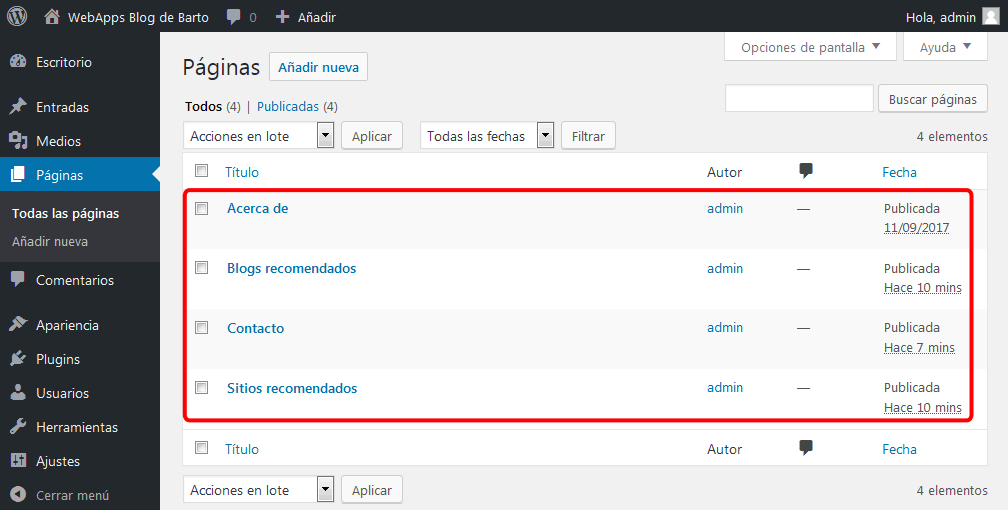
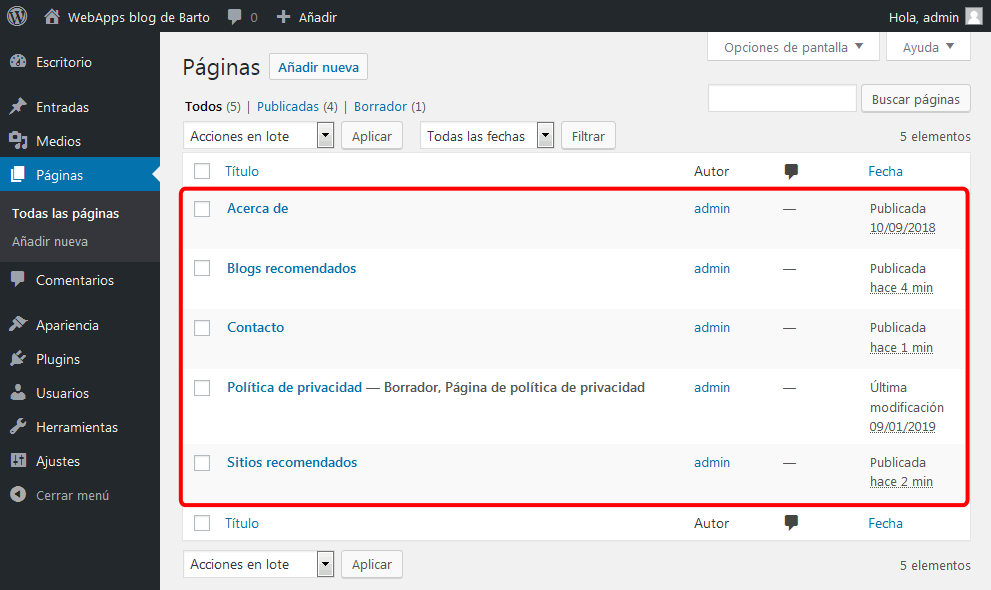
Sigo actualizando WordPress (2)

diff --git a/lecciones/wordpress-2.html b/lecciones/wordpress-2.html
@@ -65,7 +65,9 @@
           <li>Formato de fecha: 11/01/2019</li>
           <li>Formato de hora: 21:14</li>
         </ul>
-        <p class="captura"><img src="../img/wordpress/2-1-e-1-ajustes.png" alt="WordPress. Ajustes básicos" width="991" height="489" /></p>
+        <p class="captura">
+          <img src="../img/wordpress/2-1-e-1-ajustes.png" alt="WordPress. Ajustes básicos" width="991" height="489" />
+        </p>
       </li>
       <li>Entradas
         <p>El blog predeterminado contiene una entrada que se titula "¡Hola mundo!".</p>
@@ -73,17 +75,21 @@
           <li>Primera entrada
             <p>Modifique el título y contenido de la primera entrada. Por ejemplo,</p>
             <p>Nace WebApps blog</p>
-            <p>Hoy nace WebApps blog, el blog dedicado a las aplicaciones web.  ¡Bienvenidos al viaje!</p>
+            <p>Hoy nace WebApps blog, el blog dedicado a las aplicaciones web. ¡Bienvenidos al viaje!</p>
             <p>Modifique la fecha de la entrada. Por ejemplo, al 10 de septiembre de 2018.</p>
             <p>Modifique el enlace permanente de la página. Por ejemplo a nace-webapps-blog.</p>
-            <p class="captura"><img src="../img/wordpress/2-1-e-2-entrada.png" alt="WordPress. Entrada" width="991" height="489" /></p>
+            <p class="captura">
+              <img src="../img/wordpress/2-1-e-2-entrada.png" alt="WordPress. Entrada" width="991" height="489" />
+            </p>
           </li>
           <li>Comentario a la primera entrada
             <p>Modifique el contenido del comentario. Por ejemplo,</p>
             <p>Enhorabuena!</p>
             <p>Ojalá que este blog tenga una larga vida. Es fácil empezar un blog, pero no es nada fácil continuar en la brecha.</p>
             <p>Modifique la fecha del comentario. Por ejemplo, al 11 de septiembre de 2018.</p>
-            <p class="captura"><img src="../img/wordpress/2-1-e-3-comentario.png" alt="WordPress. Comentario" width="991" height="489" /></p>
+            <p class="captura">
+              <img src="../img/wordpress/2-1-e-3-comentario.png" alt="WordPress. Comentario" width="991" height="489" />
+            </p>
           </li>
         </ul>
       </li>
@@ -97,7 +103,9 @@
           <li>Modifique la fecha de la página de ejemplo. Por ejemplo, al 10 de septiembre de 2018.</li>
           <li>Modifique el enlace permanente a <strong>http://.../wordpress/acerca-de</strong>.</li>
           <li>Compruebe que no puede ver la página de ejemplo escribiendo la dirección <strong>http://.../wordpress/pagina-ejemplo</strong>, pero sí puede verla escribiendo la dirección <strong>http://.../wordpress/acerca-de</strong>.
-            <p class="captura"><img src="../img/wordpress/2-1-e-4-pagina.png" alt="WordPress. Página" width="991" height="489" /></p>
+            <p class="captura">
+              <img src="../img/wordpress/2-1-e-4-pagina.png" alt="WordPress. Página" width="991" height="489" />
+            </p>
           </li>
         </ul>
       </li>
@@ -114,13 +122,10 @@
         <ul>
           <li><strong>Blogs recomendados</strong>, con enlaces a otros blogs de temática relacionada.
             <ul>
-              <li>readwrite: <a href="https://readwrite.com/">https://readwrite.com/</a></li>
-              <li>CopyBlogger: <a href="https://www.copyblogger.com/blog/">https://www.copyblogger.com/blog/</a></li>
-              <li>Blogging Basics 101: <a href="https://www.bloggingbasics101.com/">https://www.bloggingbasics101.com/</a></li>
-              <li>Social Media Examiner: <a href="https://www.socialmediaexaminer.com/">https://www.socialmediaexaminer.com/</a></li>
-              <li>The Moz Blog: <a href="https://moz.com/blog">https://moz.com/blog</a></li>
-              <li>ProBlogger: <a href="https://problogger.com/">https://problogger.com/</a></li>
-              <li>Avinash Kaushik: <a href="https://www.kaushik.net/avinash/">https://www.kaushik.net/avinash/</a></li>
+              <li>WP Tavern: <a href="https://wptavern.com/">https://wptavern.com/</a></li>
+              <li>ManageWP: <a href="https://managewp.org/">https://managewp.org/</a></li>
+              <li>WP Mayor: <a href="https://wpmayor.com/">https://wpmayor.com/</a></li>
+              <li>WPKube: <a href="https://www.wpkube.com/">https://www.wpkube.com/</a></li>
             </ul>
           </li>
           <li><strong>Sitios recomendados</strong> (no blogs), con enlaces a sitios de temática relacionada.
@@ -133,7 +138,9 @@
           </li>
           <li><strong>Contacto</strong>, con información de contacto (correo, redes sociales, etc).</li>
         </ul>
-        <p class="captura"><img src="../img/wordpress/2-2-e-1-paginas.png" alt="WordPress. Páginas" width="1008" height="510" /></p>
+        <p class="captura">
+          <img src="../img/wordpress/2-2-e-1-paginas.png" alt="WordPress. Páginas" width="991" height="590" />
+        </p>
       </li>
       <li>Compruebe que las páginas no se muestran por ahora en la web, pero sí que puede acceder a ellas escribiendo su dirección, por ejemplo, <strong>http://.../wordpress/contacto</strong>.</li>
     </ul>
@@ -143,7 +150,9 @@
     <h2>WordPress (2) 3 - Menús</h2>
     <ul>
       <li>Cree un nuevo menú primario llamado <strong>Menú 1</strong>, que incluya únicamente un enlace a la página inicial:
-        <p class="captura"><img src="../img/wordpress/2-3-e-1-menu.jpg" alt="WordPress. Menú" width="1008" height="490" /></p>
+        <p class="captura">
+          <img src="../img/wordpress/2-3-e-1-menu.png" alt="WordPress. Menú" width="991" height="489" />
+        </p>
       </li>
       <li>Amplie el menú <strong>Menú 1</strong>:
         <ul>
@@ -166,7 +175,9 @@
           <li>Para añadir las opciones Enlaces y Ayuda, que no enlazan a ninguna página, puede añadir dos enlaces al menú.</li>
           <li>Para guardar un enlace hay que escribir algo en el campo URL, pero luego se puede borrar el campo URL para que no se comporte como enlace.</li>
         </ul>
-        <p class="captura"><img src="../img/wordpress/2-3-e-2-menu.jpg" alt="WordPress. Menú" width="1008" height="440" /></p>
+        <p class="captura">
+          <img src="../img/wordpress/2-3-e-2-menu.png" alt="WordPress. Menú" width="991" height="489" />
+        </p>
       </li>
     </ul>
   </section>
@@ -177,33 +188,40 @@
     <p><img src="../varios/iconos/icono-warning.svg" alt="¡Atención!" width="55" height="48" /> Tenga en cuenta que las entradas se muestran automáticamente en la web. Además, de forma predeterminada, se pueden crear comentarios en las páginas (aunque se puede configurar una página para que no admita comentarios).</p>
 
     <ul>
-      <li>Cree siete entradas en el blog. Como el blog está dedicado a las aplicaciones web, las entradas pueden tratar temas como: la publicación de nuevas versiones de aplicaciones web, breves tutoriales sobre aplicaciones web, etc. Por ejemplo
+      <li>Cree unas cuantas entradas en el blog. Como el blog está dedicado a las aplicaciones web, las entradas pueden tratar temas como: la publicación de nuevas versiones de aplicaciones web, breves tutoriales sobre aplicaciones web, etc. Por ejemplo
         <ul>
           <li>Nueva versión: Drupal 8.6
-            <p>El 5 de septiembre de 2018 se ha publicado Drupal 8.6.</p>
+            <p>El 5 de septiembre de 2018 se ha publicado <a href="https://www.drupal.org/">Drupal</a> 8.6.</p>
           </li>
           <li>Tutorial: Documentación oficial de Drupal<br />
             <p>En <a href="https://www.drupal.org/documentation/">https://www.drupal.org/documentation/</a> se encuentra la documentación oficial de Drupal.</p>
           </li>
-          <li>Nueva versión: Nextcloud 15
-            <p>El 10 de septiembre de 2018 se publicó Nextcloud 14.</p>
+          <li>Nueva versión: Nextcloud 14
+            <p>El 10 de septiembre de 2018 se ha publicado <a href="https://nextcloud.com/">Nextcloud</a> 14.</p>
           </li>
           <li>Nueva versión: WordPress 5.0<br />
-            <p>El 6 de diciembre de 2018 se ha publicado WordPress 4.9.</p>
+            <p>El 6 de diciembre de 2018 se ha publicado <a href="https://wordpress.org/">WordPress</a> 5.0.</p>
           </li>
           <li>Tutorial: Documentación oficial de WordPress<br />
             <p>En <a href="https://codex.wordpress.org/">https://codex.wordpress.org/</a> se encuentra la documentación oficial de WordPress.</p>
           </li>
           <li>Nueva versión: Nextcloud 15
-            <p>El 10 de diciembre de 2018 se publicó Nextcloud 15.</p>
+            <p>El 10 de diciembre de 2018 se ha publicado <a href="https://nextcloud.com/">Nextcloud</a> 15.</p>
           </li>
           <li>Nueva versión: OpenCart 3.0.3
-            <p>El 4 de enero de 2019 se publicó OpenCart 3.0.3.</p>
+            <p>El 4 de enero de 2019 se ha publicado <a href="https://www.opencart.com/">OpenCart</a> 3.0.3.</p>
+          </li>
+          <li>Nueva versión: MediaWiki 1.32
+            <p>El 11 de enero se ha publicado <a href="https://www.mediawiki.org/wiki/MediaWiki">MediaWiki</a> 1.32.</p>
           </li>
         </ul>
-        <p class="captura"><img src="../img/wordpress/2-4-e-1-entradas.png" alt="WordPress. Entradas" width="1008" height="640" /></p>
       </li>
-      <li>Cambie la fecha de publicación de las novedades para que coincidan con el día de publicación de cada nueva versión.</li>
+      <li>Cambie la fecha de publicación de las novedades para que coincidan con el día de publicación de cada nueva versión.
+        <p class="captura">
+          <img src="../img/wordpress/2-4-e-1-entradas.png" alt="WordPress. Entradas" width="991" height="460" />
+          <img src="../img/wordpress/2-4-e-2-entradas.png" alt="WordPress. Entradas" width="991" height="488" />
+        </p>
+      </li>
     </ul>
   </section>
 
@@ -272,7 +290,7 @@
   </section>
 
   <footer>
-    <p class="ultmod">Última modificación de esta página: 9 de enero de 2019</p>
+    <p class="ultmod">Última modificación de esta página: 12 de enero de 2019</p>
 
     <p class="licencia">
       <a rel="license" href="https://creativecommons.org/licenses/by-sa/4.0/deed.es_ES"><img src="../varios/iconos/icono-cc-by-sa.svg" alt="Licencia Creative Commons" title="Licencia Creative Commons BY-SA" width="120" height="42" /></a><br />

diff --git a/lecciones/wordpress-2-soluciones.html b/lecciones/wordpress-2-soluciones.html
@@ -90,40 +90,71 @@
     <h2>WordPress (2) 2 - Páginas</h2>
 
     <p>Las páginas se pueden crear mediante el menú <strong>Escritorio &gt; Páginas &gt; Añadir nueva</strong>.</p>
-    <p>Si se trata de un borrador al cual los visitantes no deben poder acceder todavía, haga clic en Guardar. Para que la página sea visible para los visitantes del blog, haga clic en Publicar.</p>
+    <p>Si se trata de un borrador al cual los visitantes no deben poder acceder todavía, haga clic en <strong>Sólo guardar</strong>. Para que la página pueda ser visible para los visitantes del blog, haga clic en <strong>Publicar</strong>. Pero tenga en cuenta que las nuevas páginas no se muestran automáticamente, sino que hace falta incluir un enlace a ellas en algún menú, entrada o página ya visible.</p>
   </section>
 
   <section id="ejercicio-3">
     <h2>Wordpress (2) 3 - Menús</h2>
 
-    <p>Los menús se administran en la sección Escritorio &gt; Apariencia &gt; Menús.</p>
-
-    <p>Para crear un nuevo menú, haga clic en "crea un nuevo menú", escriba el nombre del menú y haga clic en "Crear menú".</p>
-
-    <p>Una vez creado el menú, añada los elementos del menú:</p>
+    <p>Para crear un nuevo menú con un enlace a la página principal:</p>
     <ul>
-      <li>Los enlaces a páginas, entradas o categorías ya existentes se pueden crear directamente con el widget de la izquierda.</li>
-      <li>Los enlaces personalizados se pueden crear con el widget de la izquierda.
-        <p>Para crear un elemento del menú que no enlace a ninguna página, cree primero el elemento con un texto cualquiera en el campo del enlace y, una vez creado, edite el elemento y borre el texto en el campo del enlace.</p>
+      <li>abra la sección <strong>Escritorio &gt; Apariencia &gt; Menús</strong></li>
+      <li>escriba el nombre del menú y haga clic en "Crear menú":
+        <p class="captura">
+          <img src="../img/wordpress/2-3-s-1-menu.png" alt="WordPress. Menú" width="1008" height="430" />
+        </p>
       </li>
-      <li>para hacer visible el menú al visitante, marque una casilla en el apartado "Dónde se verá".</li>
-      <li>Una vez creados los elementos, haga clic en "Guardar menú".</li>
+      <li>en el apartado Páginas, haga clic en la pestaña "Ver todo", marque la casilla corresponiendte a Inicio y haga clic en "Añadir al menú":
+        <p class="captura">
+          <img src="../img/wordpress/2-3-s-2-menu.png" alt="WordPress. Menú" width="1008" height="660" />
+        </p>
+      </li>
+      <li>en el apartado "Estructura del menú" se mostrará el enlace a Inicio creado. En el apartado "Ajustes del menú", marque la casilla correspondiente a Principal y haga clic en "Guardar menú":
+        <p class="captura">
+          <img src="../img/wordpress/2-3-s-3-menu.png" alt="WordPress. Menú" width="991" height="660" />
+        </p>
+      </li>
     </ul>
 
-    <p>Una vez creados los elementos del menú, puede reordenarlos arrastrando y soltando los rectángulos que representan los elementos del menú con el widget de la derecha. Si un elemento está situado los arrastra ligeramente hacia la derecha, significa que forma parte de un submenú del elemento anterior. Una vez reordenados los elementos, haga clic en "Guardar menú".</p>
+    <p>Para añadir a un menú existente una opción que no enlace a ningún sitio:</p>
+    <ul>
+      <li>en el apartado "Enlaces personalizados", escriba el texto y una URL cualquiera y haga clic en "Añadir al menú":
+        <p class="captura">
+          <img src="../img/wordpress/2-3-s-11-menu.png" alt="WordPress. Menú" width="991" height="630" />
+        </p>
+      </li>
+      <li>en el apartado "Estructura del menú" se creará un elemento. Despliegue el elemento y borre la URL y haga clic en "Guardar menú":
+        <p class="captura">
+          <img src="../img/wordpress/2-3-s-12-menu.png" alt="WordPress. Menú" width="1008" height="670" />
+        </p>
+      </li>
+    </ul>
+
+
+    <p>Para añadir a una opción de menú algunas opciones de submenú que enlacen a diferentes páginas:</p>
+    <ul>
+      <li>en el apartado Páginas, marque las páginas que quiera enlazar y haga clic en "Añadir al menú":
+        <p class="captura">
+          <img src="../img/wordpress/2-3-s-21-menu.png" alt="WordPress. Menú" width="991" height="610" />
+        </p>
+      </li>
+      <li>en el apartado "Estructura del menú" se creará un elemento por cada página marcada. Arrastre los elementos ligeramente a la derecha del elemento que vaya a ser la primera opción de ese submenú y haga clic en "Guardar menú":
+        <p class="captura">
+          <img src="../img/wordpress/2-3-s-22-menu.png" alt="WordPress. Menú" width="991" height="705" />
+        </p>
+      </li>
+    </ul>
   </section>
 
   <section id="ejercicio-4">
     <h2>WordPress (2) 4 - Entradas</h2>
 
-    <p>Las entradas se pueden crear en Escritorio &gt; Entradas &gt; Añadir nuevas.</p>
+    <p>Las entradas se pueden crear en <strong>Escritorio &gt; Entradas &gt; Añadir nueva</strong>.</p>
 
-    <p>Una vez creadas las entradas, se pueden editar en Escritorio &gt; Todas las entradas &gt;</p>
-
-    <p>Situando el cursor sobre la fila de una entrada, se muestran opciones para editar la entrada:</p>
+    <p>Una vez creadas las entradas, se pueden editar en <strong>Escritorio &gt; Todas las entradas</strong>. Situando el cursor sobre la fila de una entrada, se muestran opciones para editar la entrada:</p>
     <ul>
       <li>La opción <strong>Edición rápida</strong> permite cambiar varios elementos de una entrada: el título, la fecha, las etiquetas, etc.</li>
-      <li>La opción <strong>Editar</strong> permite cambiar cualquier elemento de la entrada.</li>
+      <li>La opción <strong>Editar</strong> permite cambiar el contenido y otros elementos de la entrada.</li>
     </ul>
   </section>
 
@@ -154,7 +185,7 @@
   </section>
 
   <footer>
-    <p class="ultmod">Última modificación de esta página: 18 de enero de 2018</p>
+    <p class="ultmod">Última modificación de esta página: 12 de enero de 2019</p>
 
     <p class="licencia">
       <a rel="license" href="https://creativecommons.org/licenses/by-sa/4.0/deed.es_ES"><img src="../varios/iconos/icono-cc-by-sa.svg" alt="Licencia Creative Commons" title="Licencia Creative Commons BY-SA" width="120" height="42" /></a><br />
